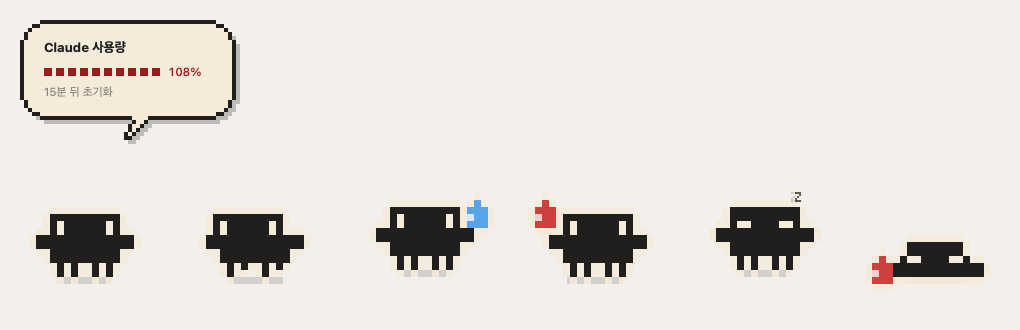
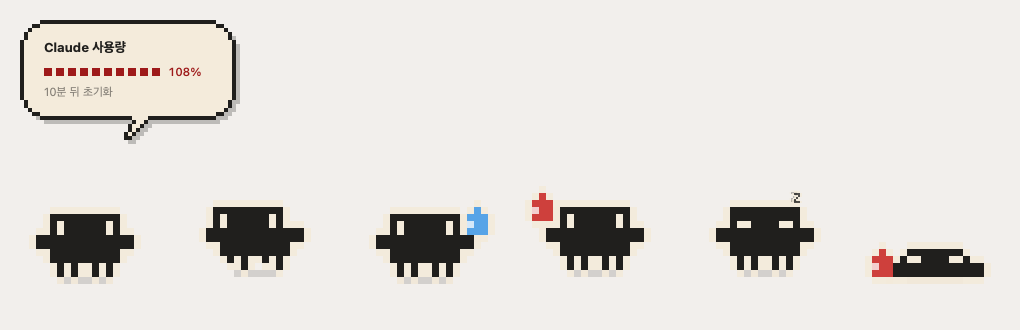
숨쉴 때 머리만 커 보이던 문제 수정
들숨에서 머리 줄을 복제했더니 머리만 부풀어 보였다. 부풀어야 하는 건
몸통이므로 몸통을 한 줄 늘리고, 머리와 눈은 그만큼 함께 밀려 올라가게 했다.

diff --git a/buddy/sprite.py b/buddy/sprite.py
@@ -49,14 +49,14 @@ _LYING_OUT = [          # 날숨
     "##############",
     "##############",
 ]
-_LYING_IN = [           # 들숨 — 바닥은 그대로 두고 등만 한 칸 부푼다
+_LYING_IN = [           # 들숨 — 바닥은 그대로, 몸통이 한 줄 부풀며 머리를 밀어 올린다
     "              ",
     "              ",
     "              ",
     "              ",
-    "   ########   ",
     "   ########   ",
     "  #oo####oo#  ",
+    "##############",
     "##############",
     "##############",
 ]
